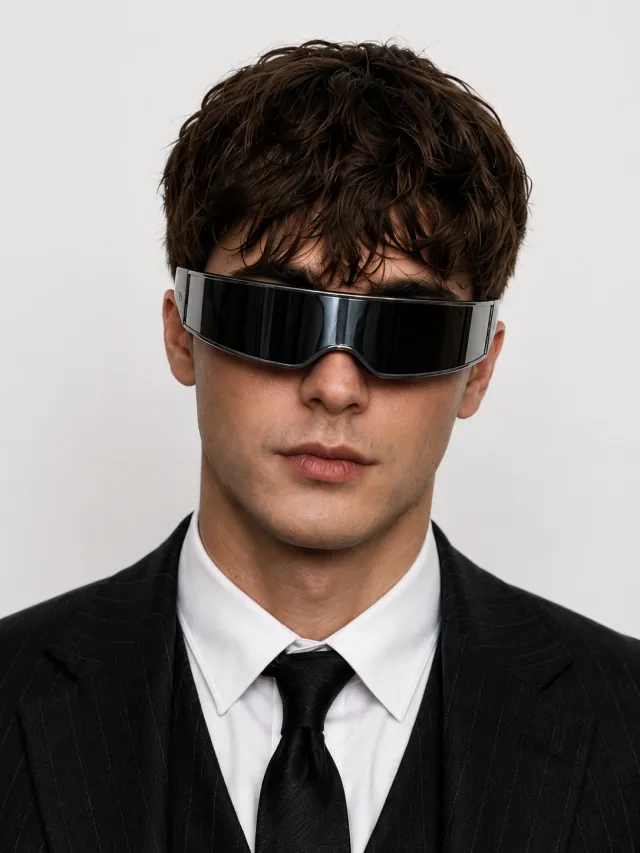
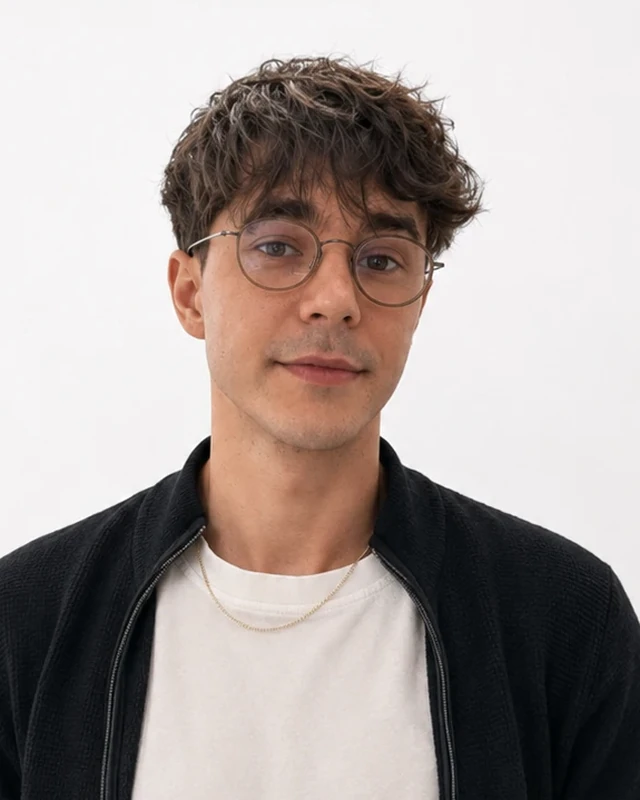
About: Andrej's real studio portrait, shown plain
Same treatment as Asad — new studio shot cropped to the card framing
(head ~46% of frame, 4:5), lens projection omitted. The two now-unused
lens mattes are deleted (git history keeps them if the marquee
treatment is ever wanted back). The Anonymous card keeps its effect.

diff --git a/src/components/VisorCard.tsx b/src/components/VisorCard.tsx
@@ -38,26 +38,13 @@ const HEART = ['.##.##.', '#######', '#######', '.#####.', '..###..', '...#...']
 const STAR = ['...#...', '..###..', '#######', '.#####.', '..###..', '.#...#.'];
 
 const CONFIGS: Record<'andrej' | 'asad' | 'anon', PersonConfig> = {
-  // Design lead: G, designer's cursor, pen nib, eye, bolt, heart, star
+  // Design lead — the real studio portrait, shown plain (no lens projection)
   andrej: {
     photo: '/king/andrej-visor.webp',
-    mask: '/king/andrej-visor-mask.png',
-    aspect: '1086 / 1448',
+    aspect: '640 / 800',
     alt: 'Andrej — Design Lead',
     name: 'ANDREJ',
     sub: 'DESIGN LEAD',
-    // lens band measured from the photo: x 27.3%→77.6%, centerline y 38.6%,
-    // real downward tilt 3.2° to camera-right
-    band: { left: '27.3%', top: '33.2%', width: '50.3%', height: '10.4%', tilt: 3.2 },
-    icons: [
-      G,
-      ['#......', '##.....', '###....', '####...', '#####..', '######.', '###....', '#.#....'], // cursor
-      ['..###..', '.#####.', '.#####.', '..###..', '..#.#..', '...#...'], // pen nib
-      EYE,
-      BOLT,
-      HEART,
-      STAR,
-    ],
   },
   // Dev lead — the real studio portrait, shown plain (no lens projection)
   asad: {
